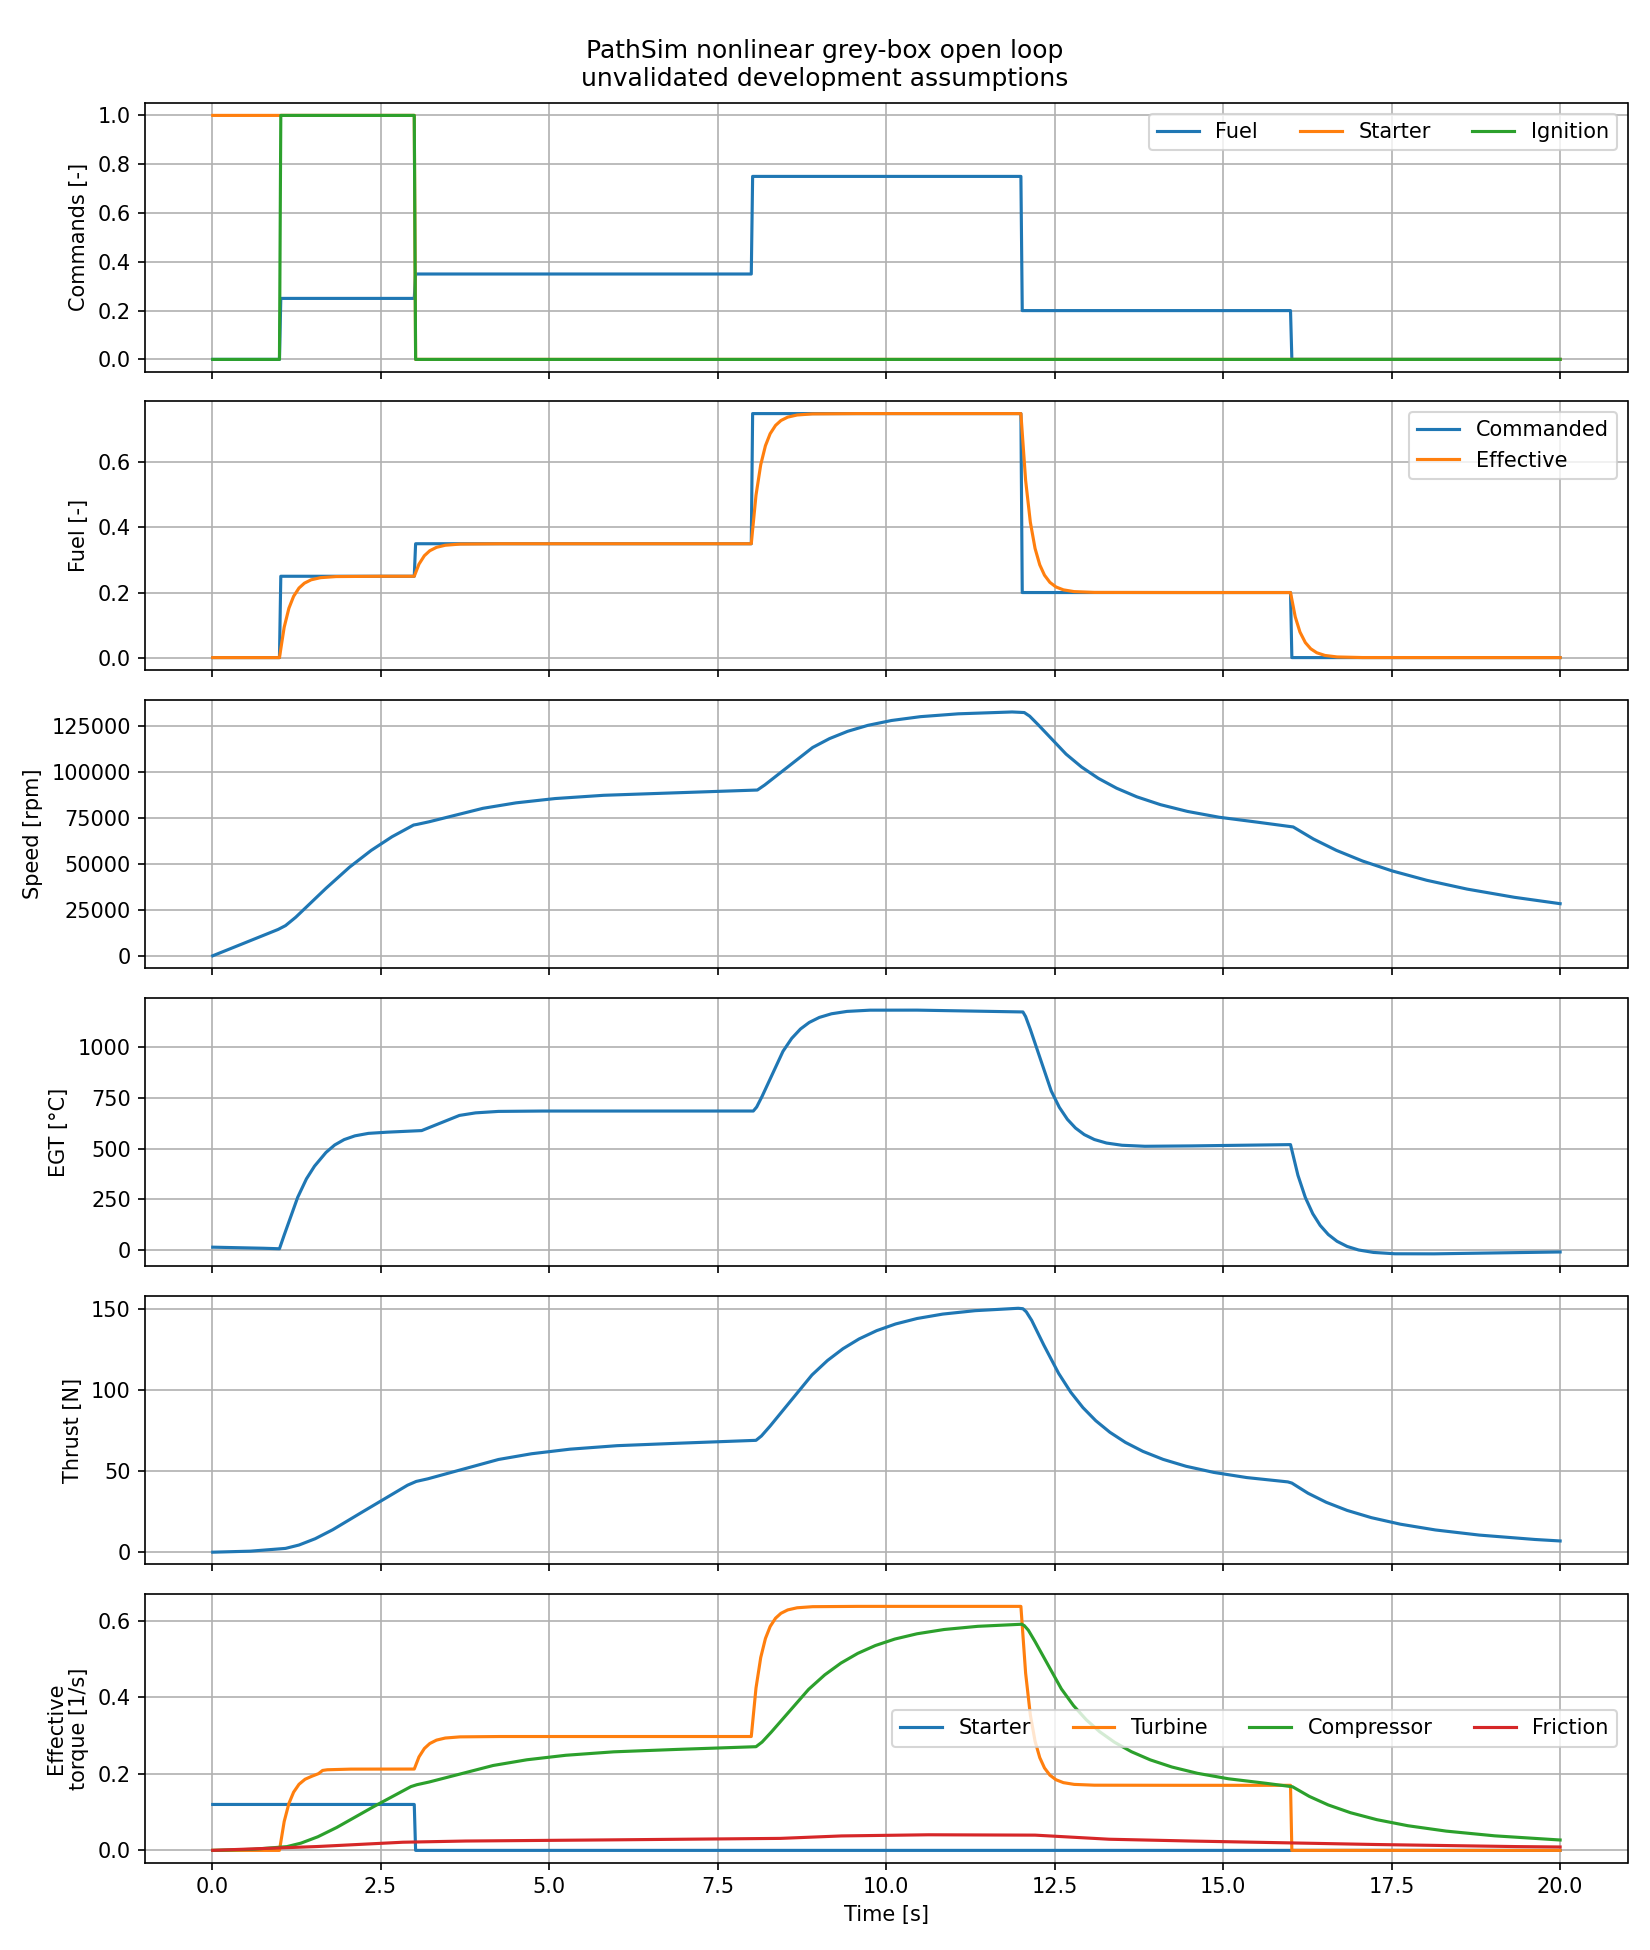
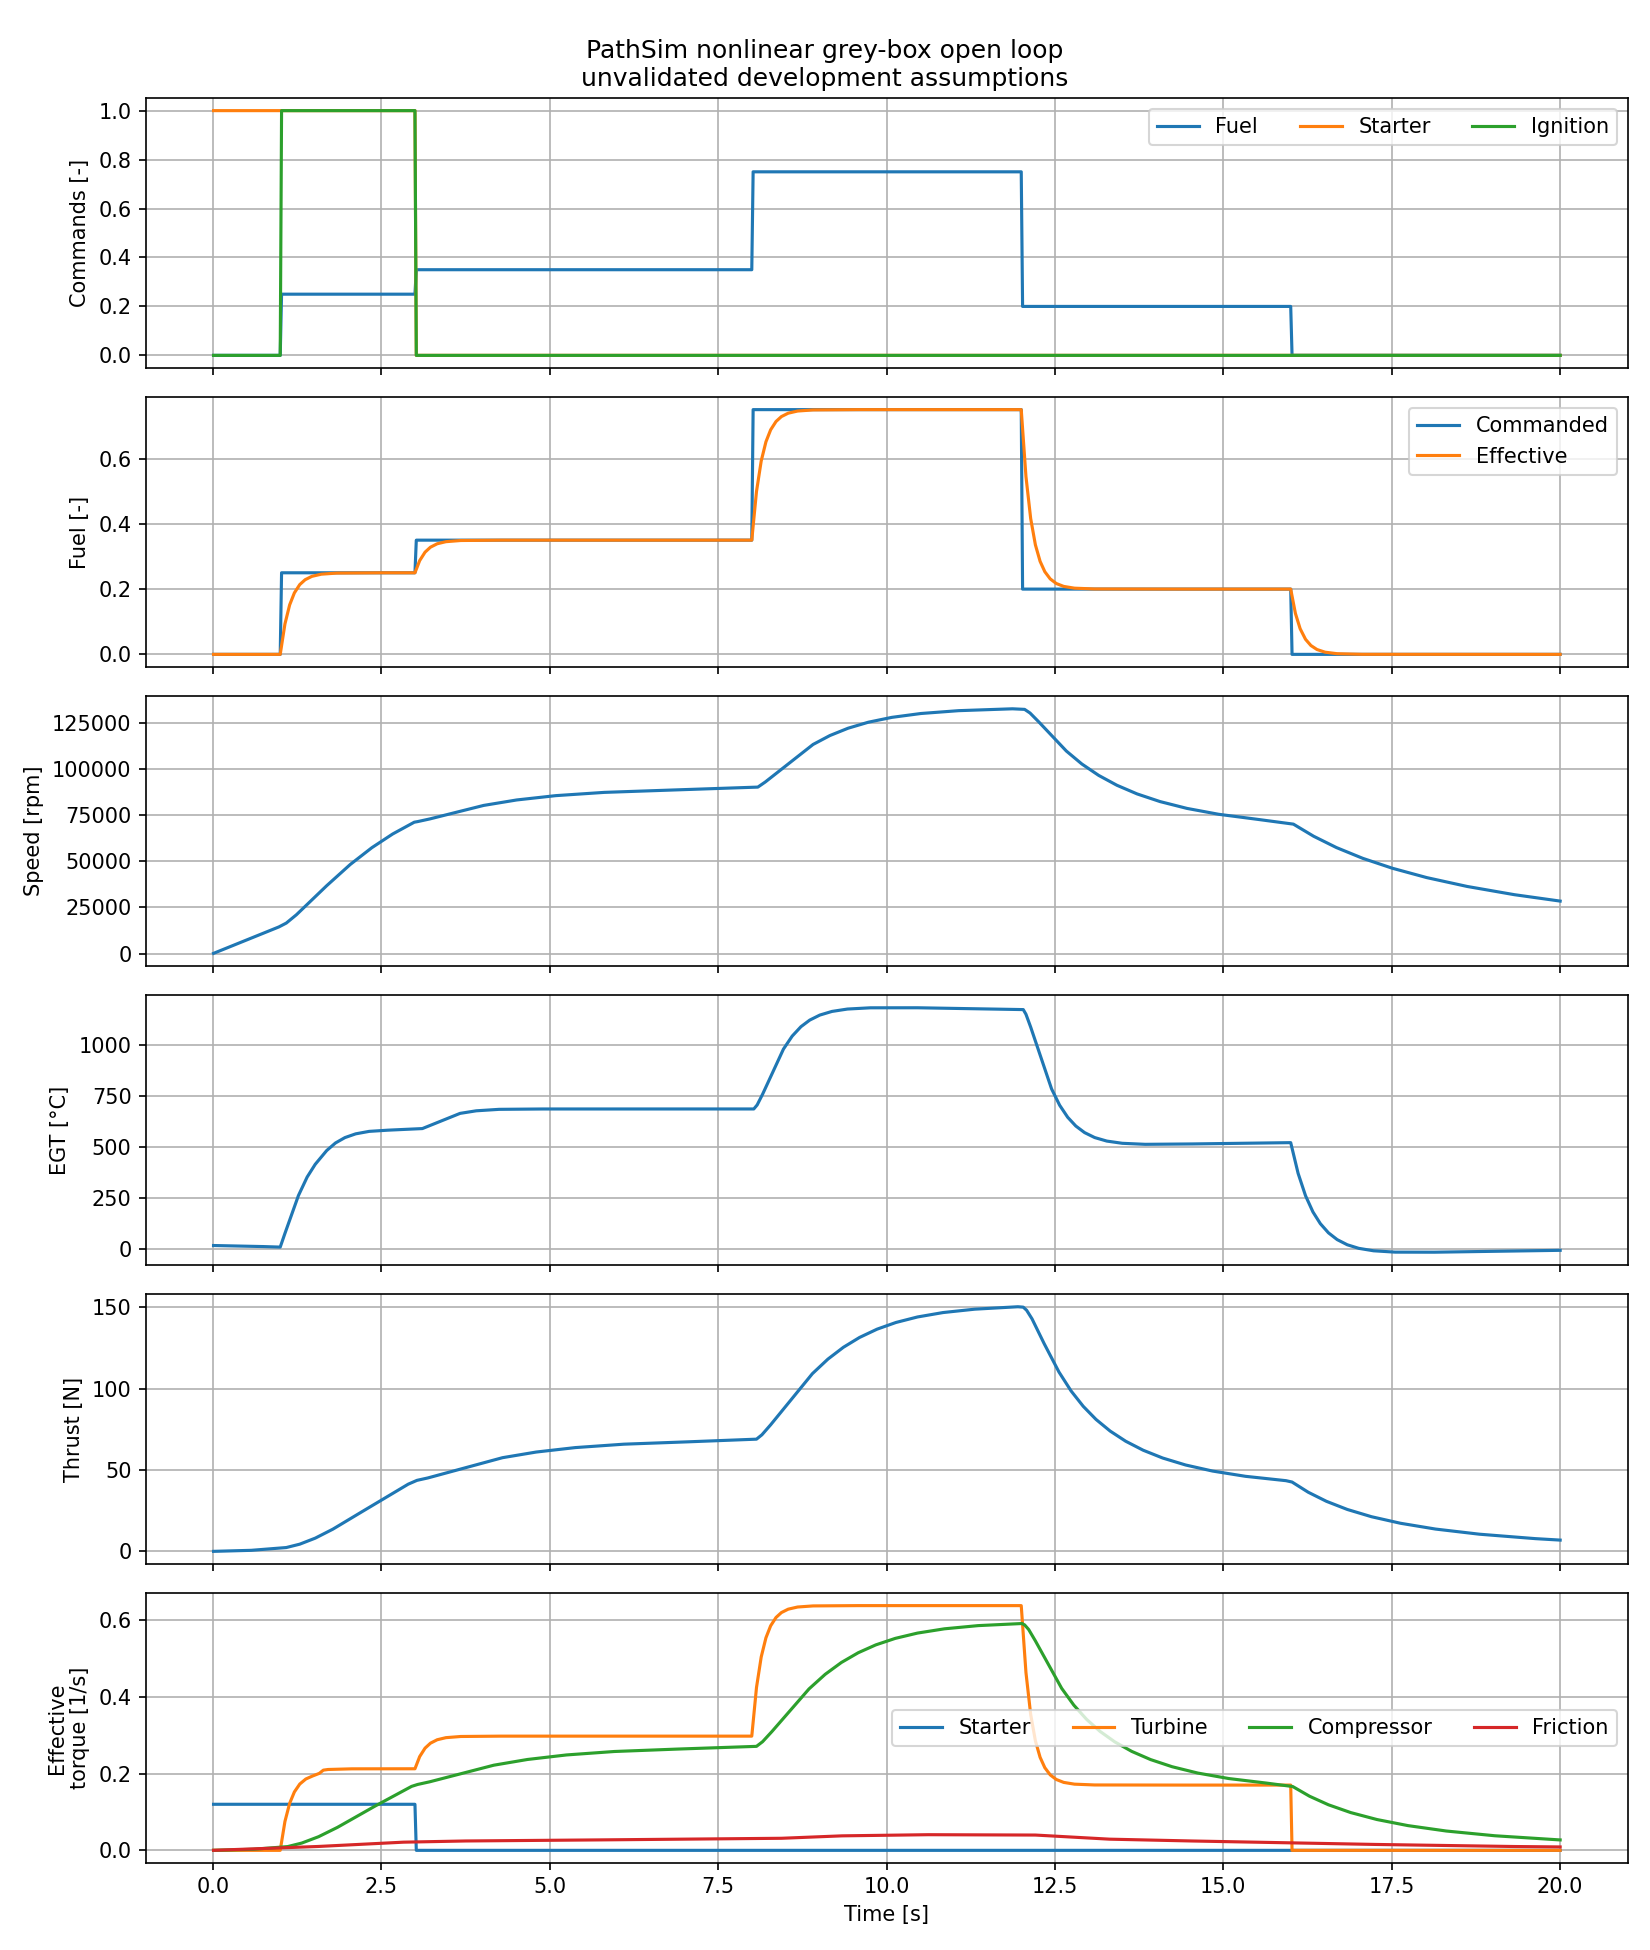
fix: align PathSim EGT dynamics with protection limits

diff --git a/tests/integration/test_plant_backend_integration.py b/tests/integration/test_plant_backend_integration.py
@@ -7,8 +7,11 @@ from pathlib import Path
 import pytest
 
 from simulation.application.dashboard_model import DashboardSimulation
+from simulation.application.engine_simulation import EngineSimulationCoordinator
 from simulation.application.factory import create_application
 from simulation.operation.engine_state import EngineOperatingState
+from simulation.operation.state_machine import EngineOperationRequest
+from simulation.plants.config import PlantSelectionConfig
 from simulation.plants.factory import plant_selection_for
 from simulation.plants.types import PlantModelKind, PlantSimulationError
 from simulation.telemetry.recorder import RunRecorder, RunRecorderParameters
@@ -56,6 +59,46 @@ def test_pathsim_truth_flows_through_sensors_and_fadec_chain() -> None:
     assert snapshot.validated_rotor_speed_rpm is not None
     assert snapshot.plant_time_s == pytest.approx(snapshot.simulation_time_s)
     assert snapshot.plant_diagnostics is not None
+
+
+def test_pathsim_reaches_maximum_speed_without_sustained_egt_limiting() -> None:
+    coordinator = EngineSimulationCoordinator(
+        plant_config=PlantSelectionConfig(
+            model=PlantModelKind.PATHSIM_GREYBOX_V1
+        )
+    )
+    startup_requested = True
+    throttle_command = 0.0
+    idle_reached = False
+    maximum_egt_c = coordinator.snapshot.exhaust_temperature_c
+
+    for _ in range(int(15.0 / 0.01)):
+        snapshot = coordinator.step(
+            EngineOperationRequest(
+                throttle_command=throttle_command,
+                startup_requested=startup_requested,
+            ),
+            time_step_s=0.01,
+        )
+        startup_requested = False
+        maximum_egt_c = max(
+            maximum_egt_c,
+            snapshot.exhaust_temperature_c,
+        )
+        if snapshot.operating_state is EngineOperatingState.IDLE:
+            idle_reached = True
+            throttle_command = 1.0
+
+    assert idle_reached
+    assert snapshot.operating_state is EngineOperatingState.RUNNING
+    assert snapshot.rotor_speed_rpm == pytest.approx(128_000.0, rel=0.02)
+    assert maximum_egt_c <= (
+        coordinator.egt_limiter.parameters.maximum_exhaust_temperature_c
+    )
+    assert snapshot.exhaust_temperature_c < (
+        coordinator.egt_limiter.parameters.intervention_exhaust_temperature_c
+    )
+    assert not snapshot.egt_limiter_active
 
 
 def test_plant_switching_is_off_only_and_creates_clean_state() -> None:

diff --git a/simulation/plants/pathsim_greybox/config.py b/simulation/plants/pathsim_greybox/config.py
@@ -85,6 +85,7 @@ class PathSimGreyBoxConfig:
     combustion_base_temperature_rise_c: float = 350.0
     linear_fuel_temperature_gain_c: float = 1_000.0
     quadratic_fuel_temperature_gain_c: float = 300.0
+    maximum_combustion_temperature_rise_c: float = 705.0
     speed_temperature_cooling_gain_c: float = 100.0
     thermal_time_constant_s: float = 0.35
     maximum_speed_rpm: float = 128_000.0
@@ -103,6 +104,10 @@ class PathSimGreyBoxConfig:
             ("fuel_time_constant_s", self.fuel_time_constant_s),
             ("normalized_inertia", self.normalized_inertia),
             ("thermal_time_constant_s", self.thermal_time_constant_s),
+            (
+                "maximum_combustion_temperature_rise_c",
+                self.maximum_combustion_temperature_rise_c,
+            ),
             ("maximum_speed_rpm", self.maximum_speed_rpm),
             ("maximum_normalized_speed", self.maximum_normalized_speed),
             ("thrust_speed_exponent", self.thrust_speed_exponent),

diff --git a/simulation/plants/pathsim_greybox/equations.py b/simulation/plants/pathsim_greybox/equations.py
@@ -121,11 +121,15 @@ def calculate_algebraic_terms(
         parameters.compressor_load_gain_per_s * nonnegative_speed**2
     )
     friction_load = parameters.friction_load_gain_per_s * nonnegative_speed
-    combustion_temperature_rise_c = combustion_effectiveness * (
+    unbounded_combustion_temperature_rise_c = combustion_effectiveness * (
         parameters.combustion_base_temperature_rise_c
         + parameters.linear_fuel_temperature_gain_c * state.effective_fuel
         + parameters.quadratic_fuel_temperature_gain_c
         * state.effective_fuel**2
+    )
+    combustion_temperature_rise_c = min(
+        unbounded_combustion_temperature_rise_c,
+        parameters.maximum_combustion_temperature_rise_c,
     )
     equilibrium_temperature_c = max(
         parameters.minimum_gas_temperature_c,

diff --git a/tests/unit/test_pathsim_equations.py b/tests/unit/test_pathsim_equations.py
@@ -142,6 +142,22 @@ def test_equilibrium_temperature_increases_with_fuel() -> None:
     assert high.equilibrium_temperature_c > low.equilibrium_temperature_c
 
 
+def test_combustion_temperature_rise_is_bounded_at_full_fuel() -> None:
+    state = GreyBoxStateVector(
+        effective_fuel=1.0,
+        normalized_speed=1.0,
+        gas_temperature_c=600.0,
+    )
+
+    terms = calculate_algebraic_terms(state, _inputs(fuel=1.0), PARAMETERS)
+
+    assert terms.equilibrium_temperature_c == pytest.approx(
+        15.0
+        + PARAMETERS.maximum_combustion_temperature_rise_c
+        - PARAMETERS.speed_temperature_cooling_gain_c
+    )
+
+
 def test_thrust_is_nonnegative_and_increases_with_speed() -> None:
     stopped = calculate_thrust_n(
         GreyBoxStateVector(0.0, 0.0, 15.0),

diff --git a/simulation/plants/pathsim_greybox/model.py b/simulation/plants/pathsim_greybox/model.py
@@ -28,7 +28,7 @@ from simulation.plants.types import (
 class PathSimGreyBoxEngineModel:
     """Initial unvalidated nonlinear educational engine-plant backend."""
 
-    MODEL_VERSION = "0.1.0"
+    MODEL_VERSION = "0.2.0"
 
     def __init__(
         self,
@@ -232,6 +232,7 @@ class PathSimGreyBoxEngineModel:
                 "All parameters are unvalidated development assumptions",
                 "Single normalized spool with effective torque coefficients",
                 "Combustion support depends only on plant inputs and states",
+                "Combustion temperature rise is bounded by configuration",
                 "Ambient pressure applies only a bounded thrust correction",
             ),
             "model_limitations": (

diff --git a/tests/unit/test_pathsim_configuration.py b/tests/unit/test_pathsim_configuration.py
@@ -32,6 +32,11 @@ def test_valid_configuration_is_accepted_and_serializes_deterministically() -> N
         ("fuel_time_constant_s", 0.0, "fuel_time_constant_s"),
         ("thermal_time_constant_s", -1.0, "thermal_time_constant_s"),
         ("normalized_inertia", 0.0, "normalized_inertia"),
+        (
+            "maximum_combustion_temperature_rise_c",
+            0.0,
+            "maximum_combustion_temperature_rise_c",
+        ),
         ("linear_fuel_temperature_gain_c", math.nan, "must be finite"),
         ("turbine_torque_gain_per_s", math.inf, "must be finite"),
     ),

diff --git a/docs/pathsim/model_equations.md b/docs/pathsim/model_equations.md
@@ -73,14 +73,17 @@ documented state domain.
 ## Thermal dynamics
 
 ```text
-Delta_T_comb = eta_comb (T_base + a1 f_eff + a2 f_eff²)
+Delta_T_raw = eta_comb (T_base + a1 f_eff + a2 f_eff²)
+Delta_T_comb = min(Delta_T_raw, Delta_T_max)
 T_eq = max(T_min, T_amb + Delta_T_comb - a3 n)
 dT_g/dt = (T_eq - T_g) / tau_T
 ```
 
 The temperature equation is a thermal lag around a deliberately simple
-equilibrium relation. It is not a Brayton-cycle station model. The lower guard
-prevents integration below `T_min`.
+equilibrium relation. The configured temperature-rise bound keeps nominal
+high-speed operation compatible with the shared EGT protection thresholds
+without changing those thresholds. It is not a Brayton-cycle station model.
+The lower guard prevents integration below `T_min`.
 
 ## Algebraic outputs
 
@@ -109,6 +112,7 @@ mass-flow, or choking model is implied.
 | `combustion_base_temperature_rise_c` | 350 | °C |
 | `linear_fuel_temperature_gain_c` | 1000 | °C per normalized fuel |
 | `quadratic_fuel_temperature_gain_c` | 300 | °C per normalized fuel² |
+| `maximum_combustion_temperature_rise_c` | 705 | °C |
 | `speed_temperature_cooling_gain_c` | 100 | °C per normalized speed |
 | `thermal_time_constant_s` | 0.35 | s |
 | `maximum_speed_rpm` | 128000 | rpm |
